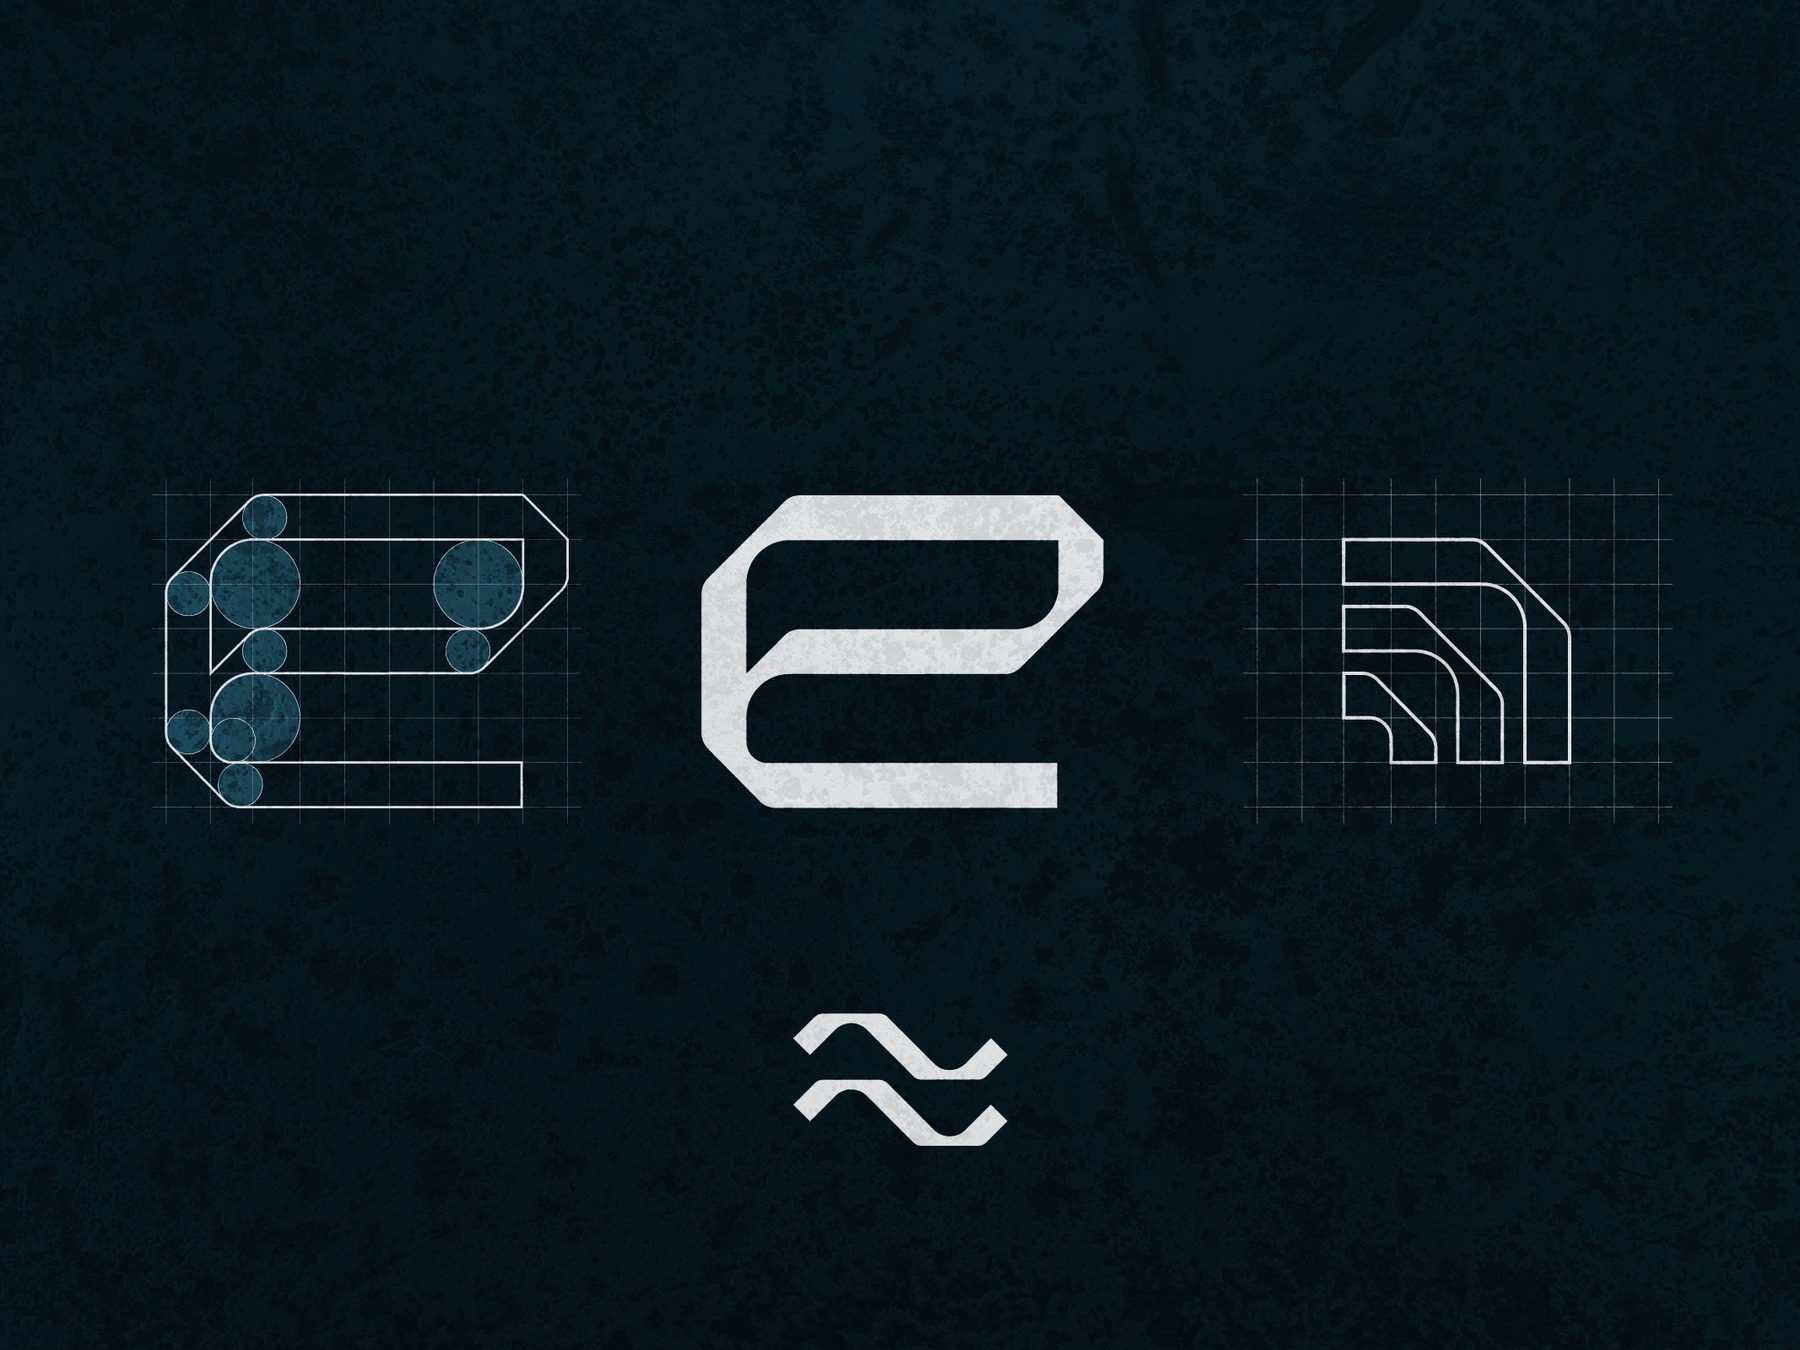
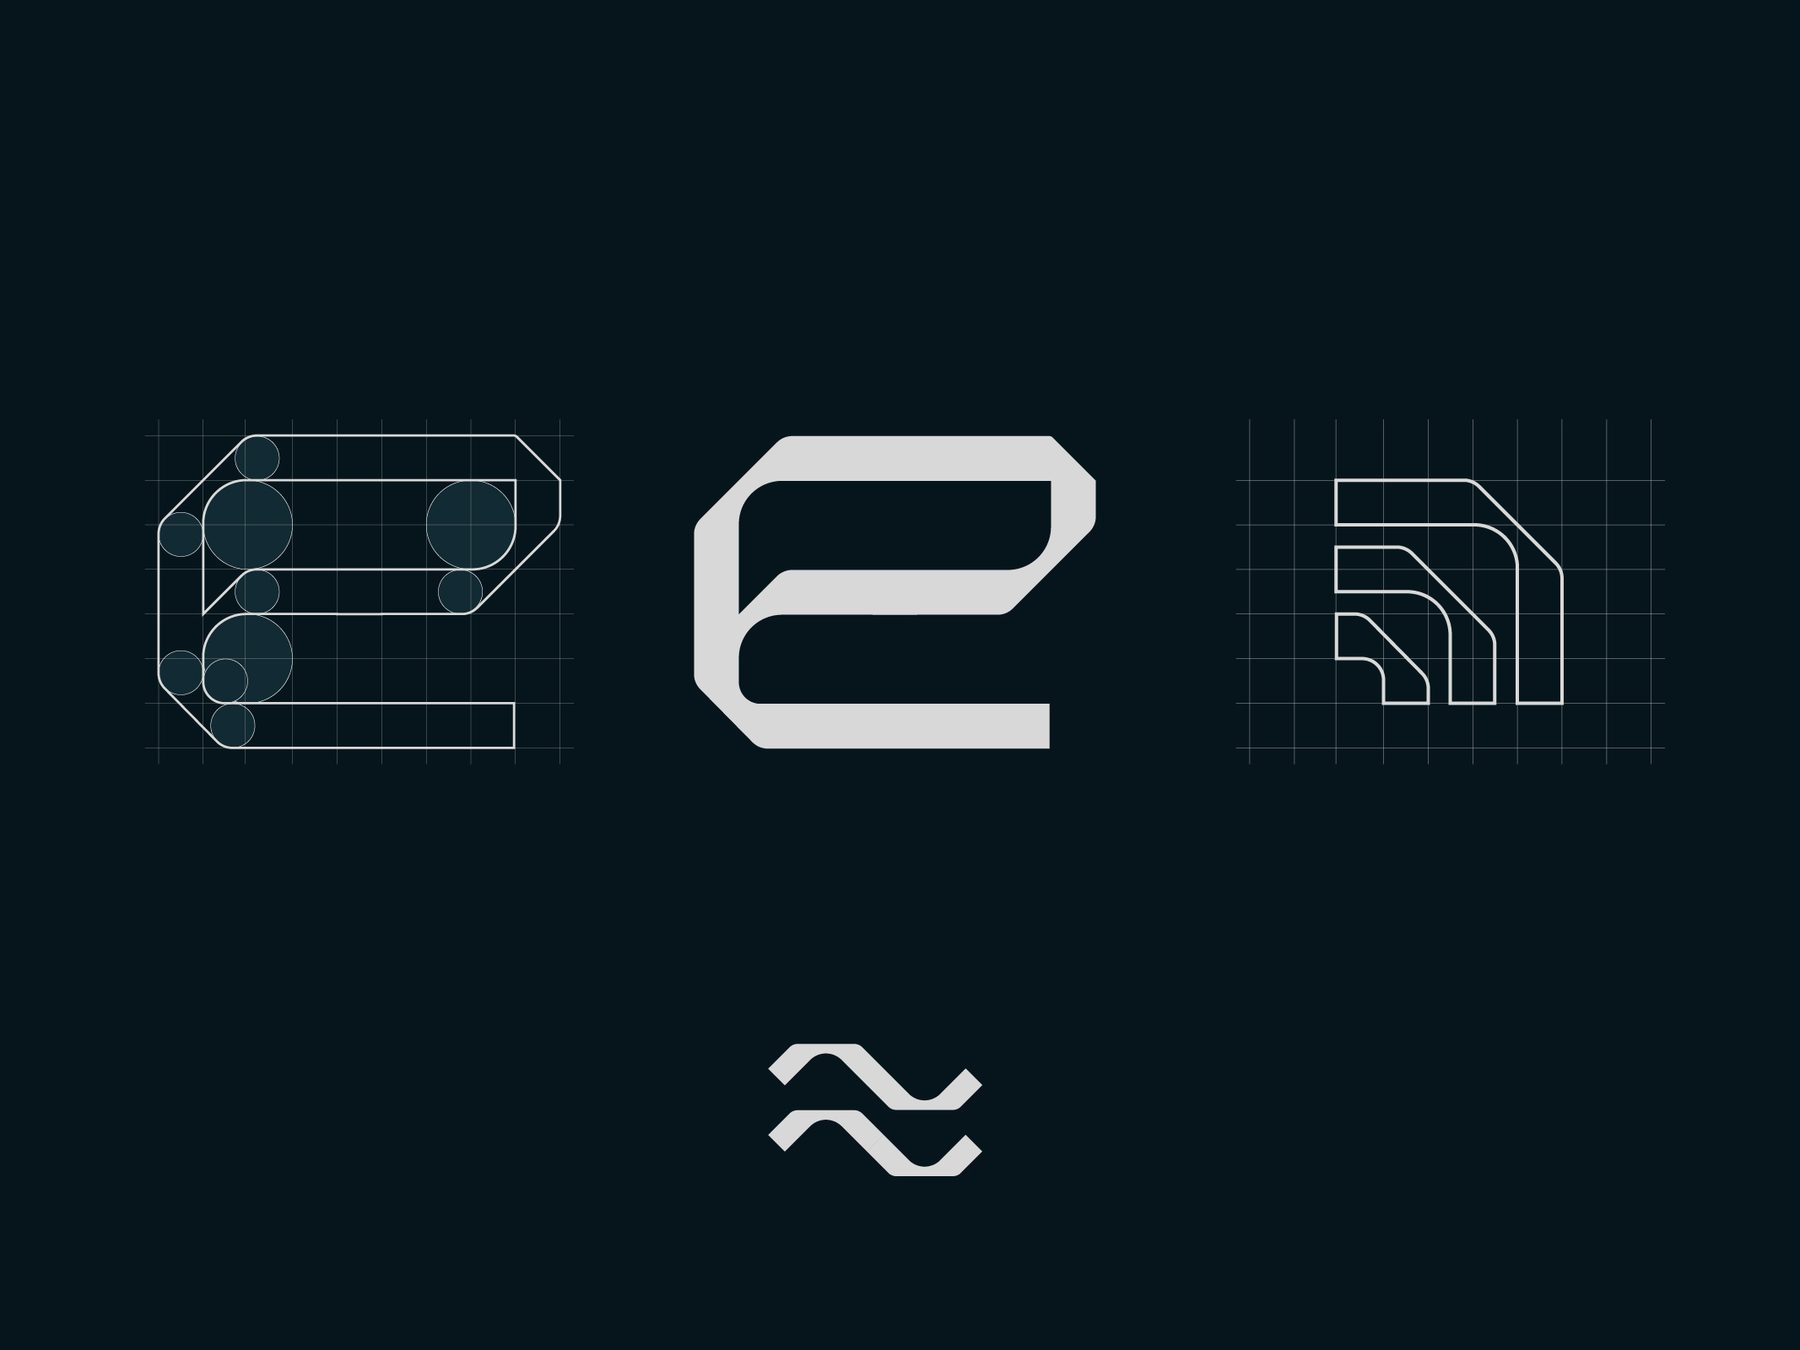
Estancco: nuevo set y orden de imagenes

diff --git a/index.html b/index.html
@@ -307,7 +307,9 @@ var WORKS = [
       "img/estancco/estancco-02.jpg",
       "img/estancco/estancco-03.jpg",
       "img/estancco/estancco-04.jpg",
-      "img/estancco/estancco-05.jpg"
+      "img/estancco/estancco-05.jpg",
+      "img/estancco/estancco-06.jpg",
+      "img/estancco/estancco-07.jpg"
     ],
     body:[
       "Estancco desarrolla su tecnología aplicada en compuertas de alta calidad con el propósito de brindar soluciones confiables y eficientes para el manejo y control del agua. Su equipo diseña, fabrica y comercializa compuertas hidráulicas para la utilización en obras de infraestructura, hídricas y de canalización, de saneamiento de aguas, y de otras industrias como alimentos, minería y energía.",
